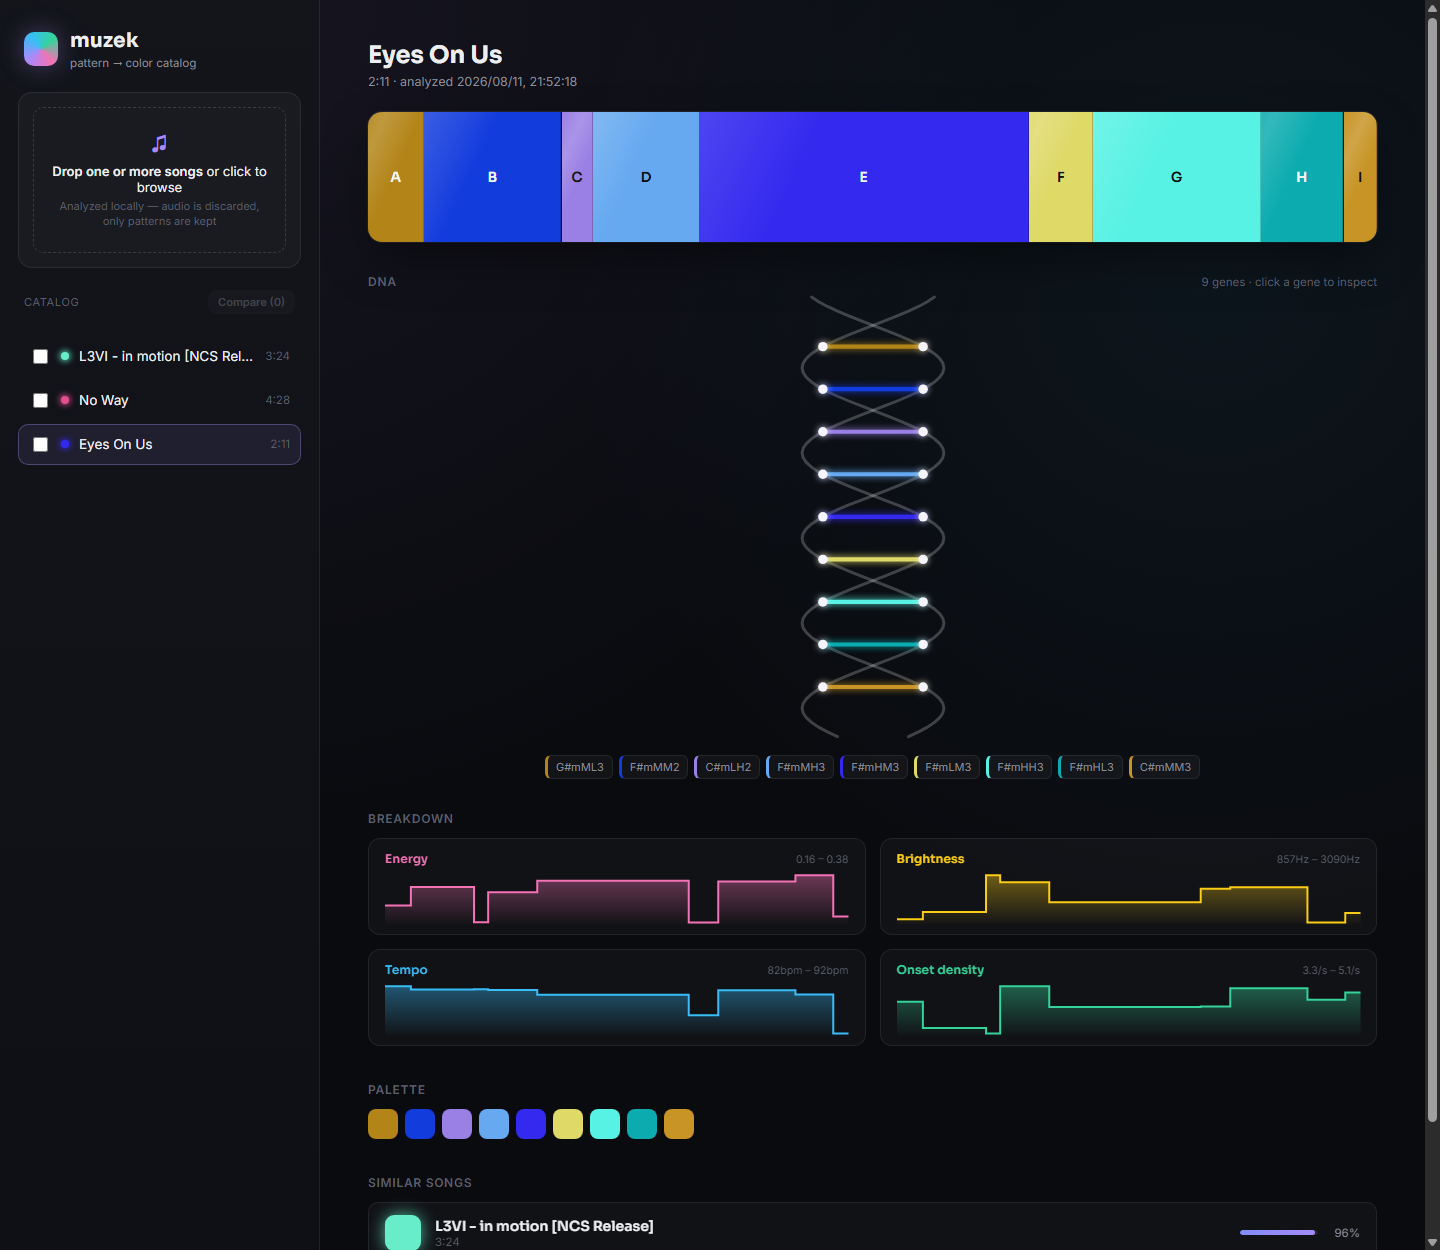
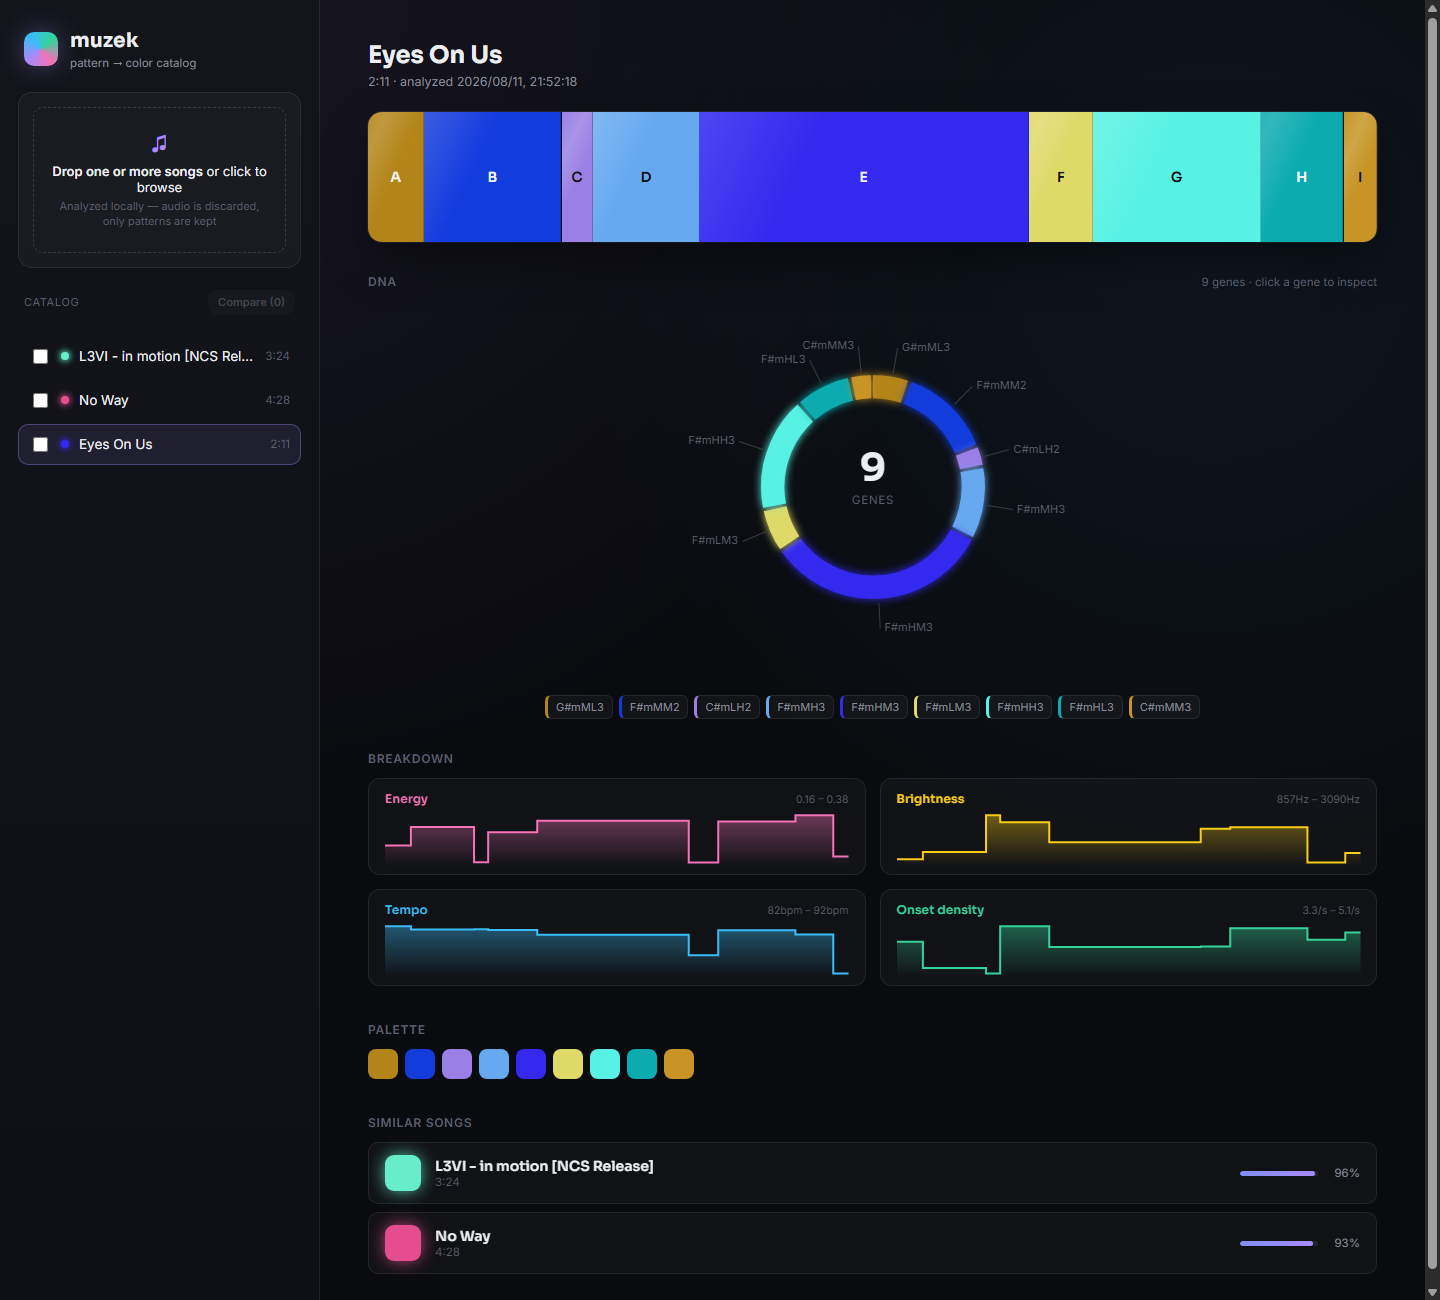
Redesign DNA as a circular genome map instead of a double helix
Two vertical-helix attempts (rotating CSS-3D bars, then a static sine-wave
version) still didn't read well. Replaced with the plasmid-map convention
from real genomics software: genes as proportional colored arcs around a
ring (starting at 12 o'clock, running clockwise), each with a leader line
out to its upright codon label so labels stay legible regardless of arc
angle. Center shows the gene count. Hover/click interactions and cross-
linking to the timeline/detail panel/sequence chips carry over unchanged.

diff --git a/muzek/web/static/app.js b/muzek/web/static/app.js
@@ -370,7 +370,10 @@ function setActiveGene(breakdown, index) {
   const seg = breakdown.segments[index];
   const hex = seg.colors[0] ? seg.colors[0].hex : "#333333";
 
-  dnaHelixEl.querySelectorAll(".dna-rung, .dna-rung-hit").forEach((el) => {
+  dnaHelixEl.querySelectorAll(".dna-arc, .dna-arc-hit").forEach((el) => {
+    el.classList.toggle("active", Number(el.dataset.index) === index);
+  });
+  dnaHelixEl.querySelectorAll(".dna-label").forEach((el) => {
     el.classList.toggle("active", Number(el.dataset.index) === index);
   });
   dnaSequenceEl.querySelectorAll(".dna-chip").forEach((el) => {
@@ -384,113 +387,135 @@ function setActiveGene(breakdown, index) {
   showDetail(seg, hex);
 }
 
-// A static, real-looking double helix: two continuous sine-wave backbone
-// strands (180 degrees out of phase) sampled at fine resolution for a smooth
-// curve, with a colored rung -- one per gene -- connecting the strands at
-// that gene's twist position.
+// A circular genome map (the "plasmid map" convention from real genomics
+// software): genes as proportional colored arcs around a ring, starting at
+// 12 o'clock and running clockwise, each with a leader line out to its
+// codon label so labels stay upright and legible regardless of arc angle.
 function renderDna(breakdown) {
   const segments = breakdown.segments;
   const n = segments.length;
+  const total = breakdown.song.duration_seconds;
 
   dnaSequenceEl.innerHTML = "";
   dnaActiveIndex = -1;
-
-  const width = 220;
-  const amplitude = 60;
-  const centerX = width / 2;
-  const spacing = 36; // vertical px per gene
-  const padding = 24;
-  const totalTwists = Math.max(2, n / 4); // ~4 genes per full twist
-  const height = n * spacing + padding * 2;
-
-  const phaseAt = (y) => ((y - padding) / (height - padding * 2)) * totalTwists * Math.PI * 2;
-  const strandX = (y, sign) => centerX + sign * amplitude * Math.sin(phaseAt(y));
-
-  const samplePath = (sign) => {
-    const step = 4;
-    let d = "";
-    for (let y = 0; y <= height; y += step) {
-      const x = strandX(y, sign);
-      d += `${y === 0 ? "M" : "L"}${x.toFixed(1)},${y.toFixed(1)} `;
-    }
-    return d;
-  };
-
   dnaCaptionEl.textContent = `${n} genes · click a gene to inspect`;
+
+  const size = 360;
+  const cx = size / 2;
+  const cy = size / 2;
+  const radius = 95;
+  const strokeWidth = 22;
+  const gapPx = 3;
+  const circumference = 2 * Math.PI * radius;
 
   const svgns = "http://www.w3.org/2000/svg";
   const svg = document.createElementNS(svgns, "svg");
-  svg.setAttribute("viewBox", `0 0 ${width} ${height}`);
+  svg.setAttribute("viewBox", `0 0 ${size} ${size}`);
   svg.setAttribute("class", "dna-svg dna-enter");
 
-  const makeStrand = (sign) => {
-    const path = document.createElementNS(svgns, "path");
-    path.setAttribute("d", samplePath(sign));
-    path.setAttribute("class", "dna-strand");
-    return path;
-  };
-  svg.appendChild(makeStrand(-1));
-  svg.appendChild(makeStrand(1));
+  const track = document.createElementNS(svgns, "circle");
+  track.setAttribute("cx", cx);
+  track.setAttribute("cy", cy);
+  track.setAttribute("r", radius);
+  track.setAttribute("class", "dna-ring-track");
+  svg.appendChild(track);
 
+  // Arcs live in a group rotated -90deg so fraction 0 starts at the top
+  // (12 o'clock) instead of SVG's default 3-o'clock start.
+  const arcGroup = document.createElementNS(svgns, "g");
+  arcGroup.setAttribute("transform", `rotate(-90 ${cx} ${cy})`);
+  svg.appendChild(arcGroup);
+
+  // Labels/leaders live outside that rotation so the text itself stays upright.
+  const labelGroup = document.createElementNS(svgns, "g");
+  svg.appendChild(labelGroup);
+
+  let cumulative = 0;
   segments.forEach((seg, i) => {
     const hex = seg.colors[0] ? seg.colors[0].hex : "#888888";
-    const y = padding + (i + 0.5) * spacing;
-    const xa = strandX(y, -1);
-    const xb = strandX(y, 1);
+    const fracLen = (seg.end - seg.start) / total;
+    const startFrac = cumulative;
+    cumulative += fracLen;
 
-    // A wide invisible line makes the thin colored rung easy to click/hover.
-    const hit = document.createElementNS(svgns, "line");
-    hit.setAttribute("x1", xa);
-    hit.setAttribute("y1", y);
-    hit.setAttribute("x2", xb);
-    hit.setAttribute("y2", y);
-    hit.setAttribute("class", "dna-rung-hit");
+    const arcLen = Math.max(fracLen * circumference - gapPx, 1);
+    const dashoffset = -(startFrac * circumference);
+    const dasharray = `${arcLen} ${circumference - arcLen}`;
+
+    const hit = document.createElementNS(svgns, "circle");
+    hit.setAttribute("cx", cx);
+    hit.setAttribute("cy", cy);
+    hit.setAttribute("r", radius);
+    hit.setAttribute("class", "dna-arc-hit");
+    hit.setAttribute("stroke-width", strokeWidth + 14);
+    hit.setAttribute("stroke-dasharray", dasharray);
+    hit.setAttribute("stroke-dashoffset", dashoffset);
     hit.dataset.index = String(i);
 
-    const rung = document.createElementNS(svgns, "line");
-    rung.setAttribute("x1", xa);
-    rung.setAttribute("y1", y);
-    rung.setAttribute("x2", xb);
-    rung.setAttribute("y2", y);
-    rung.setAttribute("class", "dna-rung");
-    rung.setAttribute("stroke", hex);
-    rung.style.color = hex; // drop-shadow(currentColor) glow matches the stroke
-    rung.dataset.index = String(i);
-
-    const nodeA = document.createElementNS(svgns, "circle");
-    nodeA.setAttribute("cx", xa);
-    nodeA.setAttribute("cy", y);
-    nodeA.setAttribute("r", 4);
-    nodeA.setAttribute("class", "dna-node");
-
-    const nodeB = document.createElementNS(svgns, "circle");
-    nodeB.setAttribute("cx", xb);
-    nodeB.setAttribute("cy", y);
-    nodeB.setAttribute("r", 4);
-    nodeB.setAttribute("class", "dna-node");
+    const arc = document.createElementNS(svgns, "circle");
+    arc.setAttribute("cx", cx);
+    arc.setAttribute("cy", cy);
+    arc.setAttribute("r", radius);
+    arc.setAttribute("class", "dna-arc");
+    arc.setAttribute("stroke", hex);
+    arc.setAttribute("stroke-width", strokeWidth);
+    arc.setAttribute("stroke-dasharray", dasharray);
+    arc.setAttribute("stroke-dashoffset", dashoffset);
+    arc.style.color = hex; // drop-shadow(currentColor) glow matches the stroke
+    arc.dataset.index = String(i);
 
     const title = document.createElementNS(svgns, "title");
     title.textContent = `${seg.label} · ${seg.codon ? seg.codon.code : ""}`;
     hit.appendChild(title);
 
+    arcGroup.appendChild(arc);
+    arcGroup.appendChild(hit);
+
+    // Leader line + label, positioned by hand in unrotated space (mirrors
+    // the -90deg arc rotation by subtracting 90deg from the angle here too).
+    const midAngle = (startFrac + fracLen / 2) * 2 * Math.PI - Math.PI / 2;
+    const innerR = radius + strokeWidth / 2 + 4;
+    const outerR = radius + strokeWidth / 2 + 28;
+    const x1 = cx + innerR * Math.cos(midAngle);
+    const y1 = cy + innerR * Math.sin(midAngle);
+    const x2 = cx + outerR * Math.cos(midAngle);
+    const y2 = cy + outerR * Math.sin(midAngle);
+    const isRight = Math.cos(midAngle) >= 0;
+
+    const leader = document.createElementNS(svgns, "line");
+    leader.setAttribute("x1", x1);
+    leader.setAttribute("y1", y1);
+    leader.setAttribute("x2", x2);
+    leader.setAttribute("y2", y2);
+    leader.setAttribute("class", "dna-leader");
+    leader.dataset.index = String(i);
+    labelGroup.appendChild(leader);
+
+    const label = document.createElementNS(svgns, "text");
+    label.setAttribute("x", x2 + (isRight ? 4 : -4));
+    label.setAttribute("y", y2);
+    label.setAttribute("text-anchor", isRight ? "start" : "end");
+    label.setAttribute("dominant-baseline", "middle");
+    label.setAttribute("class", "dna-label");
+    label.dataset.index = String(i);
+    label.textContent = seg.codon ? seg.codon.code : "?";
+    labelGroup.appendChild(label);
+
     const onEnter = () => {
-      rung.classList.add("hover");
-      nodeA.classList.add("hover");
-      nodeB.classList.add("hover");
+      arc.classList.add("hover");
+      label.classList.add("hover");
+      leader.classList.add("hover");
     };
     const onLeave = () => {
-      rung.classList.remove("hover");
-      nodeA.classList.remove("hover");
-      nodeB.classList.remove("hover");
+      arc.classList.remove("hover");
+      label.classList.remove("hover");
+      leader.classList.remove("hover");
     };
     hit.addEventListener("mouseenter", onEnter);
     hit.addEventListener("mouseleave", onLeave);
     hit.addEventListener("click", () => setActiveGene(breakdown, i));
-
-    svg.appendChild(rung);
-    svg.appendChild(nodeA);
-    svg.appendChild(nodeB);
-    svg.appendChild(hit);
+    label.addEventListener("mouseenter", onEnter);
+    label.addEventListener("mouseleave", onLeave);
+    label.addEventListener("click", () => setActiveGene(breakdown, i));
 
     const chip = document.createElement("div");
     chip.className = "dna-chip";
@@ -501,6 +526,22 @@ function renderDna(breakdown) {
     chip.addEventListener("click", () => setActiveGene(breakdown, i));
     dnaSequenceEl.appendChild(chip);
   });
+
+  const centerCount = document.createElementNS(svgns, "text");
+  centerCount.setAttribute("x", cx);
+  centerCount.setAttribute("y", cy - 6);
+  centerCount.setAttribute("text-anchor", "middle");
+  centerCount.setAttribute("class", "dna-center-count");
+  centerCount.textContent = String(n);
+  svg.appendChild(centerCount);
+
+  const centerLabel = document.createElementNS(svgns, "text");
+  centerLabel.setAttribute("x", cx);
+  centerLabel.setAttribute("y", cy + 16);
+  centerLabel.setAttribute("text-anchor", "middle");
+  centerLabel.setAttribute("class", "dna-center-label");
+  centerLabel.textContent = "genes";
+  svg.appendChild(centerLabel);
 
   dnaHelixEl.innerHTML = "";
   dnaHelixEl.appendChild(svg);

diff --git a/muzek/web/static/style.css b/muzek/web/static/style.css
@@ -661,7 +661,8 @@ h1, h2, h3 {
 }
 
 .dna-helix {
-  width: 260px;
+  width: 380px;
+  max-width: 100%;
   margin: 8px auto 4px;
 }
 
@@ -674,41 +675,78 @@ h1, h2, h3 {
 
 .dna-enter {
   opacity: 0;
-  transform: translateY(6px);
-  animation: fadeSlideUp 0.6s cubic-bezier(0.22, 0.8, 0.2, 1) forwards;
+  transform: scale(0.92);
+  animation: dnaRingIn 0.6s cubic-bezier(0.22, 0.8, 0.2, 1) forwards;
 }
 
-.dna-strand {
+@keyframes dnaRingIn {
+  to {
+    opacity: 1;
+    transform: none;
+  }
+}
+
+.dna-ring-track {
   fill: none;
-  stroke: rgba(255, 255, 255, 0.22);
-  stroke-width: 2.5;
-  stroke-linecap: round;
+  stroke: rgba(255, 255, 255, 0.06);
+  stroke-width: 22;
 }
 
-.dna-rung {
-  stroke-width: 3.5;
-  stroke-linecap: round;
-  transition: stroke-width 0.15s ease, filter 0.15s ease;
-  pointer-events: none;
-  filter: drop-shadow(0 0 3px currentColor);
+.dna-arc {
+  fill: none;
+  stroke-linecap: butt;
+  filter: drop-shadow(0 0 4px currentColor);
+  transition: filter 0.15s ease;
 }
 
-.dna-rung.hover,
-.dna-rung.active {
-  stroke-width: 5.5;
-  filter: drop-shadow(0 0 7px currentColor) brightness(1.25);
+.dna-arc.hover,
+.dna-arc.active {
+  filter: drop-shadow(0 0 12px currentColor) brightness(1.25);
 }
 
-.dna-rung-hit {
+.dna-arc-hit {
+  fill: none;
   stroke: transparent;
-  stroke-width: 14;
   cursor: pointer;
 }
 
-.dna-node {
-  fill: #f5f4ff;
-  filter: drop-shadow(0 0 3px rgba(245, 244, 255, 0.7));
-  pointer-events: none;
+.dna-leader {
+  stroke: rgba(255, 255, 255, 0.18);
+  stroke-width: 1;
+  transition: stroke 0.15s ease;
+}
+
+.dna-leader.hover {
+  stroke: rgba(255, 255, 255, 0.55);
+}
+
+.dna-label {
+  font-family: "Inter", monospace;
+  font-size: 10.5px;
+  fill: var(--text-dimmer);
+  cursor: pointer;
+  transition: fill 0.15s ease, font-weight 0.15s ease;
+}
+
+.dna-label.hover,
+.dna-label.active {
+  fill: var(--text);
+  font-weight: 600;
+}
+
+.dna-center-count {
+  font-family: "Sora", sans-serif;
+  font-size: 36px;
+  font-weight: 700;
+  fill: var(--text);
+}
+
+.dna-center-label {
+  font-family: "Inter", sans-serif;
+  font-size: 11px;
+  fill: var(--text-dimmer);
+  text-transform: uppercase;
+  letter-spacing: 0.06em;
 }
 
 .dna-sequence {

diff --git a/README.md b/README.md
@@ -42,9 +42,10 @@ only the derived patterns and colors, in a local SQLite database.
   open compare view
 - **Song DNA** — each section is encoded into a short genetic-style codon
   (key, mode, energy/brightness/rhythm tier — e.g. `F#mHM3`), strung together
-  into the song's "genome" and rendered as a double helix (two continuous
-  twisting backbone strands, colored rungs at each gene). Click a gene (or
-  its chip in the sequence strip below) to inspect it — synced with the
+  into the song's "genome" and rendered as a circular genome map (the
+  plasmid-map convention from real genomics software): proportional colored
+  arcs around a ring, with leader-line labels. Click a gene (arc or label,
+  or its chip in the sequence strip below) to inspect it — synced with the
   color timeline and detail panel
 
 ![Compare view](docs/screenshots/compare.png)
@@ -87,8 +88,8 @@ Then open `http://127.0.0.1:5000`. From there you can:
 
 - Drop one or more songs onto the sidebar to analyze them (sequentially, so
   the single-writer SQLite catalog never sees concurrent writes)
-- Click a song to see its color timeline, its DNA (a double helix, clickable
-  gene by gene), quantitative feature graphs, full palette, and its
+- Click a song to see its color timeline, its DNA (a circular genome map,
+  clickable gene by gene), quantitative feature graphs, full palette, and its
   most similar cataloged songs
 - Check two or more songs and click **Compare** to stack their timelines and
   graphs; hover to scrub all of them at once, or read the insights panel for
